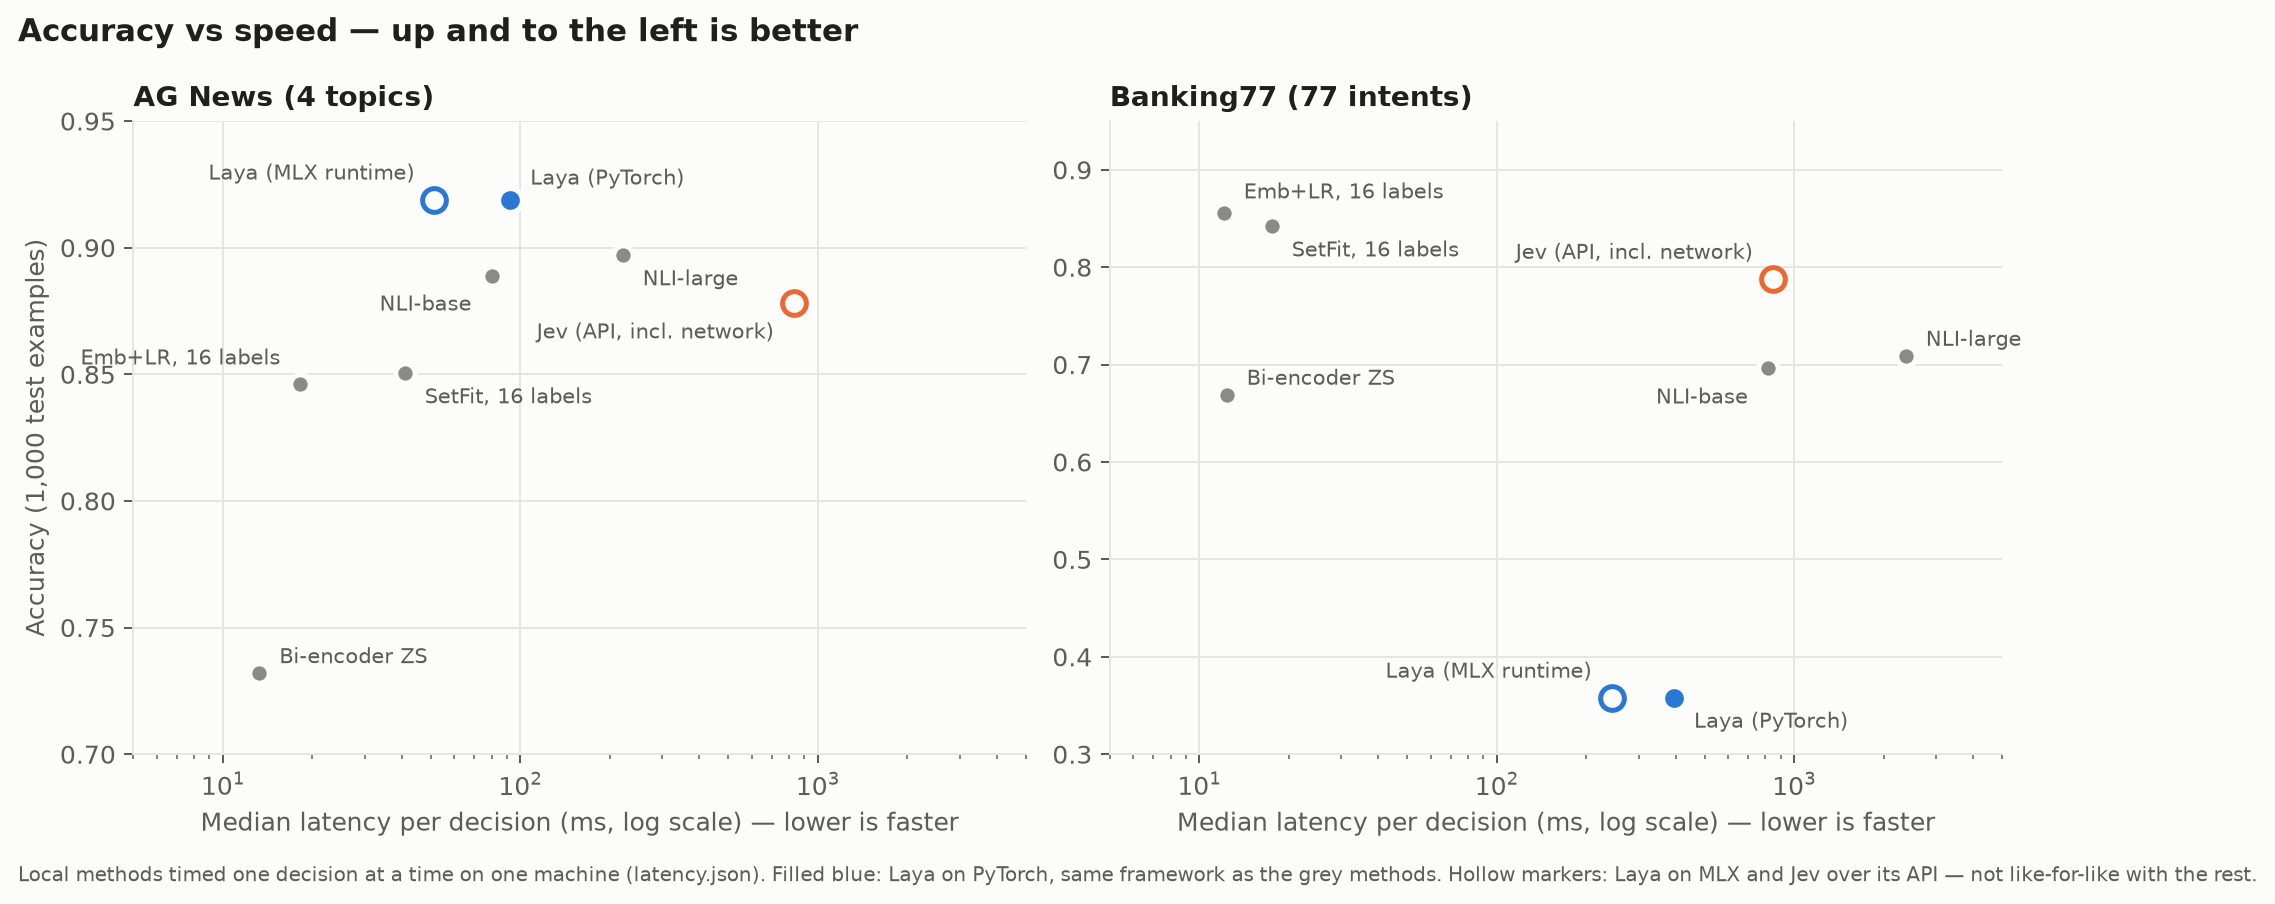
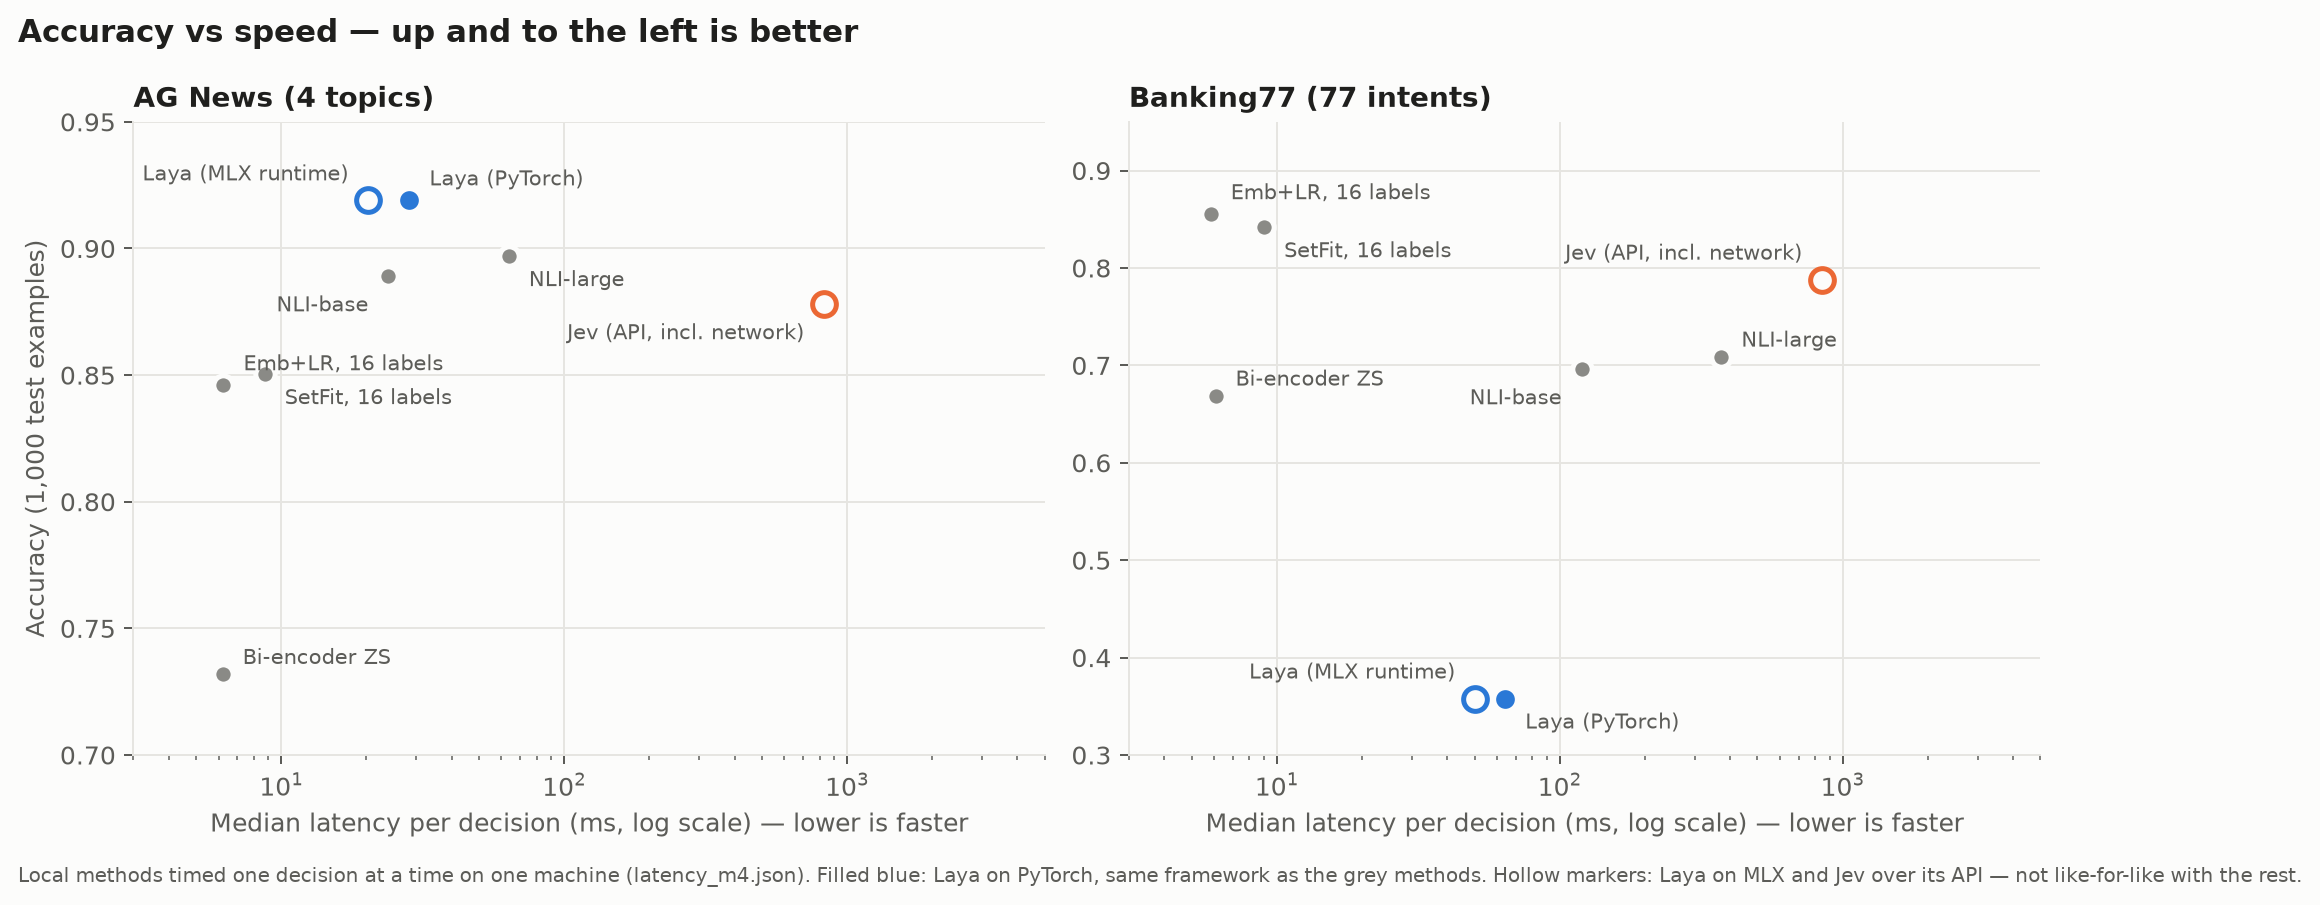
Figures: speed chart from the clean M4 timings (one process per method, flat swap)
Claude-Session: https://claude.ai/code/session_01K4hECHa6VXM3g1iwepbXxK

diff --git a/scripts/make_figures.py b/scripts/make_figures.py
@@ -65,7 +65,7 @@ def fig_speed(latency_path: Path) -> Path:
     offsets = {
         "ag_news": {"Laya (PyTorch)": (8, 6), "Laya (MLX runtime)": (-8, 8, "right"), "NLI-large": (8, -12),
                     "NLI-base": (-8, -14, "right"), "Bi-encoder ZS": (8, 4), "SetFit, 16 labels": (8, -12),
-                    "Emb+LR, 16 labels": (-8, 8, "right"), "Jev": (-8, -14, "right")},
+                    "Emb+LR, 16 labels": (8, 6), "Jev": (-8, -14, "right")},
         "banking77": {"Laya (PyTorch)": (8, -12), "Laya (MLX runtime)": (-8, 8, "right"), "NLI-large": (8, 4),
                       "NLI-base": (-8, -14, "right"), "Bi-encoder ZS": (8, 4), "SetFit, 16 labels": (8, -12),
                       "Emb+LR, 16 labels": (8, 6), "Jev": (-8, 8, "right")},
@@ -97,7 +97,7 @@ def fig_speed(latency_path: Path) -> Path:
         ax.scatter(jx, jy, s=90, facecolor=SURFACE, edgecolor=ORANGE, linewidth=2, zorder=4)
         place(ax, task, "Jev (API, incl. network)", "Jev", jx, jy)
         ax.set_xscale("log")
-        ax.set_xlim(5, 5000)
+        ax.set_xlim(3, 5000)
         ax.set_ylim(*ylims[task])
         ax.set_title(TASKS[task], loc="left")
         ax.set_xlabel("Median latency per decision (ms, log scale) — lower is faster")
@@ -181,7 +181,9 @@ def fig_reliability() -> Path:
 
 if __name__ == "__main__":
     ap = argparse.ArgumentParser()
-    ap.add_argument("--latency", default=str(ROOT / "results" / "latency.json"))
+    # The M4 run is the headline: one process per method, swap flat throughout (see
+    # results/latency_m4_memory.log). The M1 run (latency.json) was taken under self-inflicted swap.
+    ap.add_argument("--latency", default=str(ROOT / "results" / "latency_m4.json"))
     a = ap.parse_args()
     for f in (fig_speed(Path(a.latency)), fig_labels(), fig_reliability()):
         print("wrote", f.relative_to(ROOT))
